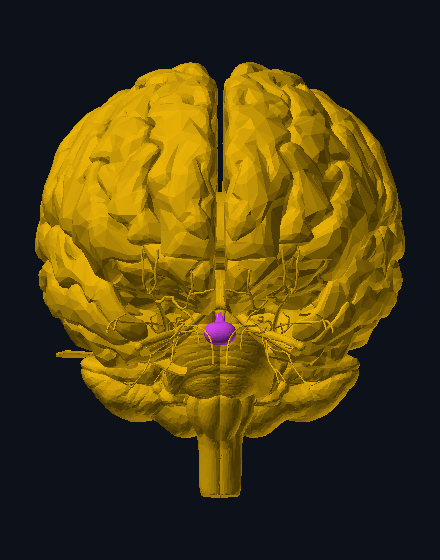
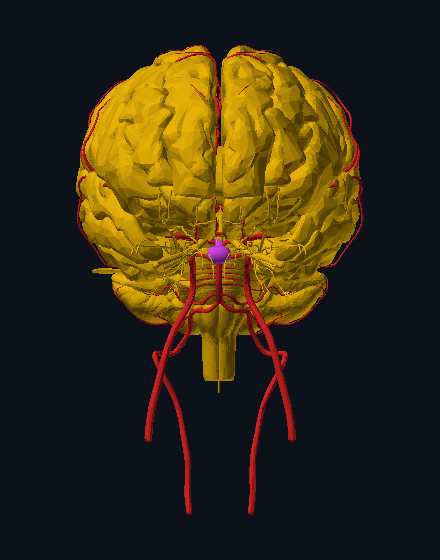
fix(simulator): the circle of Willis, and the mobile guards that were undoing each other
**The brain showed eight cerebral vessels out of a hundred and seven.** This
atlas carries a complete cerebral arterial tree - the anterior, middle and
posterior cerebral arteries with their cortical branches, both communicating
arteries, the basilar and both vertebrals, PICA, AICA and the superior
cerebellar, the pontine arteries, the anterolateral central
(lenticulostriate) branches, the choroidal, pericallosal and callosomarginal.
That is the circle of Willis, the arterial territories and the vessels a
stroke occludes: three of the most examined things in neuroanatomy, all in the
data, none of them on screen. All 101 are in now. Every one of them already
sits above y=1.47 and the common carotid tops out at 1.452 in the neck, so the
existing head floor separates the intracranial supply from its origin without
either having to be named.

There are no dural venous sinuses and no cerebral veins in this atlas - the
only `sinus` in the whole of it is the coronary sinus - so the venous side of
the brain cannot be drawn and the resolver does not pretend.

Also: the central canal of the spinal cord was the one nervous part of 144 that
no isolation target claimed at all. check:simulator now asserts that none is.

**Two mobile guards were undoing two others in the same file.** The DPR clamp
to 1.0 exists to stop this app allocating a large backbuffer, and
`antialias: true` allocated a multisampled multiple of it - paid on every pixel
[…]

diff --git a/src/pages/Simulator.tsx b/src/pages/Simulator.tsx
@@ -247,9 +247,16 @@ export const Simulator: React.FC = () => {
         isLight ? 'bg-[#f8fafc] text-slate-900' : 'bg-[#05070d] text-slate-100'
       }`}
     >
-      {/* 1. Header Bar (Responsive & Clean) */}
+      {/* 1. Header Bar (Responsive & Clean)
+          Header and the mobile tab bar are ONE sticky block. The tab bar used
+          to be stuck at a hardcoded 53-pixel offset, which is this header's
+          height on the phone it was written on — and the header's title wraps,
+          so on a narrow screen the header grows and the tab bar sat over the
+          content it was meant to sit under. Nesting them means neither has to
+          know the other's size. */}
+      <div className="sticky top-0 z-30">
       <header
-        className={`px-3 md:px-6 py-2.5 sticky top-0 z-30 backdrop-blur-xl border-b transition-colors ${
+        className={`px-3 md:px-6 py-2.5 backdrop-blur-xl border-b transition-colors ${
           isLight
             ? 'bg-white/85 border-slate-200/80 shadow-xs'
             : 'bg-slate-900/90 border-slate-800 shadow-md'
@@ -340,7 +347,7 @@ export const Simulator: React.FC = () => {
       </header>
 
       {/* 2. Mobile Segmented Tab Bar (Apple HIG Recessed Segmented Control) */}
-      <div className="lg:hidden px-3 pt-2 pb-1 sticky top-[53px] z-20">
+      <div className={`lg:hidden px-3 pt-2 pb-2 ${isLight ? 'bg-white/85' : 'bg-slate-900/90'} backdrop-blur-xl`}>
         <div
           className={`h-11 p-1 rounded-2xl border flex items-center justify-between gap-1 backdrop-blur-xl ${
             isLight
@@ -396,6 +403,7 @@ export const Simulator: React.FC = () => {
             <span>Rx & Case</span>
           </button>
         </div>
+      </div>
       </div>
 
       {/* 3. Main Stage Content */}
@@ -583,7 +591,16 @@ export const Simulator: React.FC = () => {
               onRestoreAll={handleRestoreAll}
               theme={theme}
             />
-            <div className="h-[420px] w-full relative">
+            {/* The stage was a flat `h-[420px]`: the same box on a 640pt phone,
+                where it overflows under the fold, and on an 844pt one, where a
+                third of the screen goes unused. `dvh` rather than `vh` because
+                mobile `vh` counts the URL bar that is not there, so the canvas
+                was taller than the space it had. The floor keeps it usable on a
+                small screen and in landscape. */}
+            <div
+              className="w-full relative"
+              style={{ height: 'max(300px, min(58dvh, 520px))' }}
+            >
               {isolatedPartId && (
                 <div className="absolute top-3 left-1/2 -translate-x-1/2 z-30 flex items-center gap-1.5 px-3 py-1 rounded-full bg-white/95 dark:bg-slate-900/95 backdrop-blur-md border border-amber-300 dark:border-amber-700 shadow-md pointer-events-auto touch-auto whitespace-nowrap">
                   <span className="w-2 h-2 rounded-full bg-amber-500 animate-pulse" />

diff --git a/src/simulator/data/atlasResolver.ts b/src/simulator/data/atlasResolver.ts
@@ -684,6 +684,10 @@ function selectBrain(p: Part): boolean {
   const isBrainstem = anyTerm(name, [
     'midbrain', 'pons', 'medulla oblongata', 'peduncle of midbrain', 'colliculus',
     'brachium of', 'interpeduncular', 'cerebral aqueduct',
+    // Continuous with the fourth ventricle, and modelled here only as far as
+    // the upper cord (y 1.537-1.572). It was the one nervous part in the whole
+    // atlas that no organ claimed.
+    'central canal',
   ]);
 
   const isCerebellum = anyTerm(name, ['cerebellum', 'tentorium cerebelli']);
@@ -693,6 +697,42 @@ function selectBrain(p: Part): boolean {
   const isGland = p.id === 'FJ1796' || p.id === 'FJ1795';
 
   if (CEREBRAL_CSF_IDS.has(p.id)) return true;
+
+  /**
+   * The cerebral circulation, which the brain used to show eight parts of out
+   * of a hundred and seven.
+   *
+   * This atlas carries a complete circle of Willis and the whole cerebral
+   * arterial tree — anterior, middle and posterior cerebral arteries with their
+   * cortical branches, both communicating arteries, the basilar and vertebrals,
+   * PICA, AICA and the superior cerebellar, the pontine arteries, the
+   * anterolateral central (lenticulostriate) branches, the choroidal arteries,
+   * the pericallosal and callosomarginal. That is the circle of Willis, the
+   * arterial territories and the vessels a stroke occludes: three of the most
+   * examined things in the whole of neuroanatomy, present in the data and
+   * invisible in the app.
+   *
+   * Every one of them sits above y = 1.47 already, and the common carotid tops
+   * out at 1.452 in the neck, so the head floor separates the intracranial
+   * supply from its origin without naming either.
+   *
+   * There are no dural venous sinuses and no cerebral veins in this atlas —
+   * searched, and the only `sinus` in it is the coronary sinus. So the venous
+   * side of the brain cannot be drawn, and the resolver does not pretend.
+   */
+  const isCerebralVessel =
+    (p.system === 'arterial' || p.system === 'venous') &&
+    !hasTerm(name, 'common carotid') &&
+    anyTerm(name, [
+      'cerebral artery', 'cerebellar artery', 'communicating artery',
+      'basilar artery', 'vertebral artery', 'internal carotid artery',
+      'ophthalmic artery', 'choroidal artery', 'pontine artery',
+      'callosomarginal artery', 'pericallosal artery', 'labyrinthine artery',
+      'artery of central sulcus', 'artery of postcentral sulcus',
+      'artery of precentral sulcus',
+    ]);
+
+  if (isCerebralVessel) return !!p.bounds && p.bounds[0][1] > 1.45;
 
   // The nerves of the orbit, but only the ones actually in the head — the
   // y > 1.45 floor is what keeps the spinal cord out.

diff --git a/src/simulator/view/AnatomicalBody3D.tsx b/src/simulator/view/AnatomicalBody3D.tsx
@@ -835,7 +835,24 @@ export const AnatomicalBody3D: React.FC<AnatomicalBody3DProps> = ({
     cameraRef.current = camera;
 
     // 3. Renderer with Tone Mapping & Studio Environment (Hardened for Mobile)
-    const renderer = new THREE.WebGLRenderer({ antialias: true, alpha: true, powerPreference: 'high-performance' });
+    //
+    // Two of these are off on a phone, and both were undoing the DPR clamp
+    // below rather than complementing it:
+    //
+    // - **antialias** allocates a multisampled backbuffer. The DPR clamp exists
+    //   precisely to stop this app allocating a large one, and then MSAA put a
+    //   multiple of it back. At DPR 1.0 on a 2,300,000-triangle scene, the fill
+    //   rate is what runs out first, and MSAA is paid on every pixel of it.
+    // - **powerPreference: 'high-performance'** asks the driver for the
+    //   power-hungry profile. On a desktop that is a discrete GPU. On a phone
+    //   it is heat, then thermal throttling, then a slower frame rate than the
+    //   default profile would have given — on a long anatomy session, which is
+    //   the only kind there is.
+    const renderer = new THREE.WebGLRenderer({
+      antialias: !isMobileDevice,
+      alpha: true,
+      powerPreference: isMobileDevice ? 'default' : 'high-performance',
+    });
     renderer.setSize(width, height);
     // Strict mobile DPR clamping to 1.0 prevents WebKit Jetsam OOM crashes
     renderer.setPixelRatio(Math.min(window.devicePixelRatio || 1, isMobileDevice ? 1.0 : 1.75));

diff --git a/docs/simulator-organ-sheets/index.html b/docs/simulator-organ-sheets/index.html
@@ -121,8 +121,8 @@ the renderer is. Regenerate with <code>npm run sheets:simulator</code>.</p>
     <div class="views"><img src="target-brain-anterior.png" alt="brain" loading="lazy"><img src="target-brain-lateral.png" alt="brain" loading="lazy"></div>
     <figcaption>
       <b>brain</b>
-      <span class="n">155 parts &middot; 226,050 triangles</span>
-      <span class="sys"><span class="sw" style="background:rgb(234,179,8)"></span>nervous 143 <span class="sw" style="background:rgb(220,38,38)"></span>arterial 8 <span class="sw" style="background:rgb(2,132,199)"></span>sensory 2 <span class="sw" style="background:rgb(217,70,239)"></span>endocrine 2</span>
+      <span class="n">255 parts &middot; 266,654 triangles</span>
+      <span class="sys"><span class="sw" style="background:rgb(234,179,8)"></span>nervous 144 <span class="sw" style="background:rgb(220,38,38)"></span>arterial 107 <span class="sw" style="background:rgb(2,132,199)"></span>sensory 2 <span class="sw" style="background:rgb(217,70,239)"></span>endocrine 2</span>
     </figcaption>
   </figure>
   <figure>
